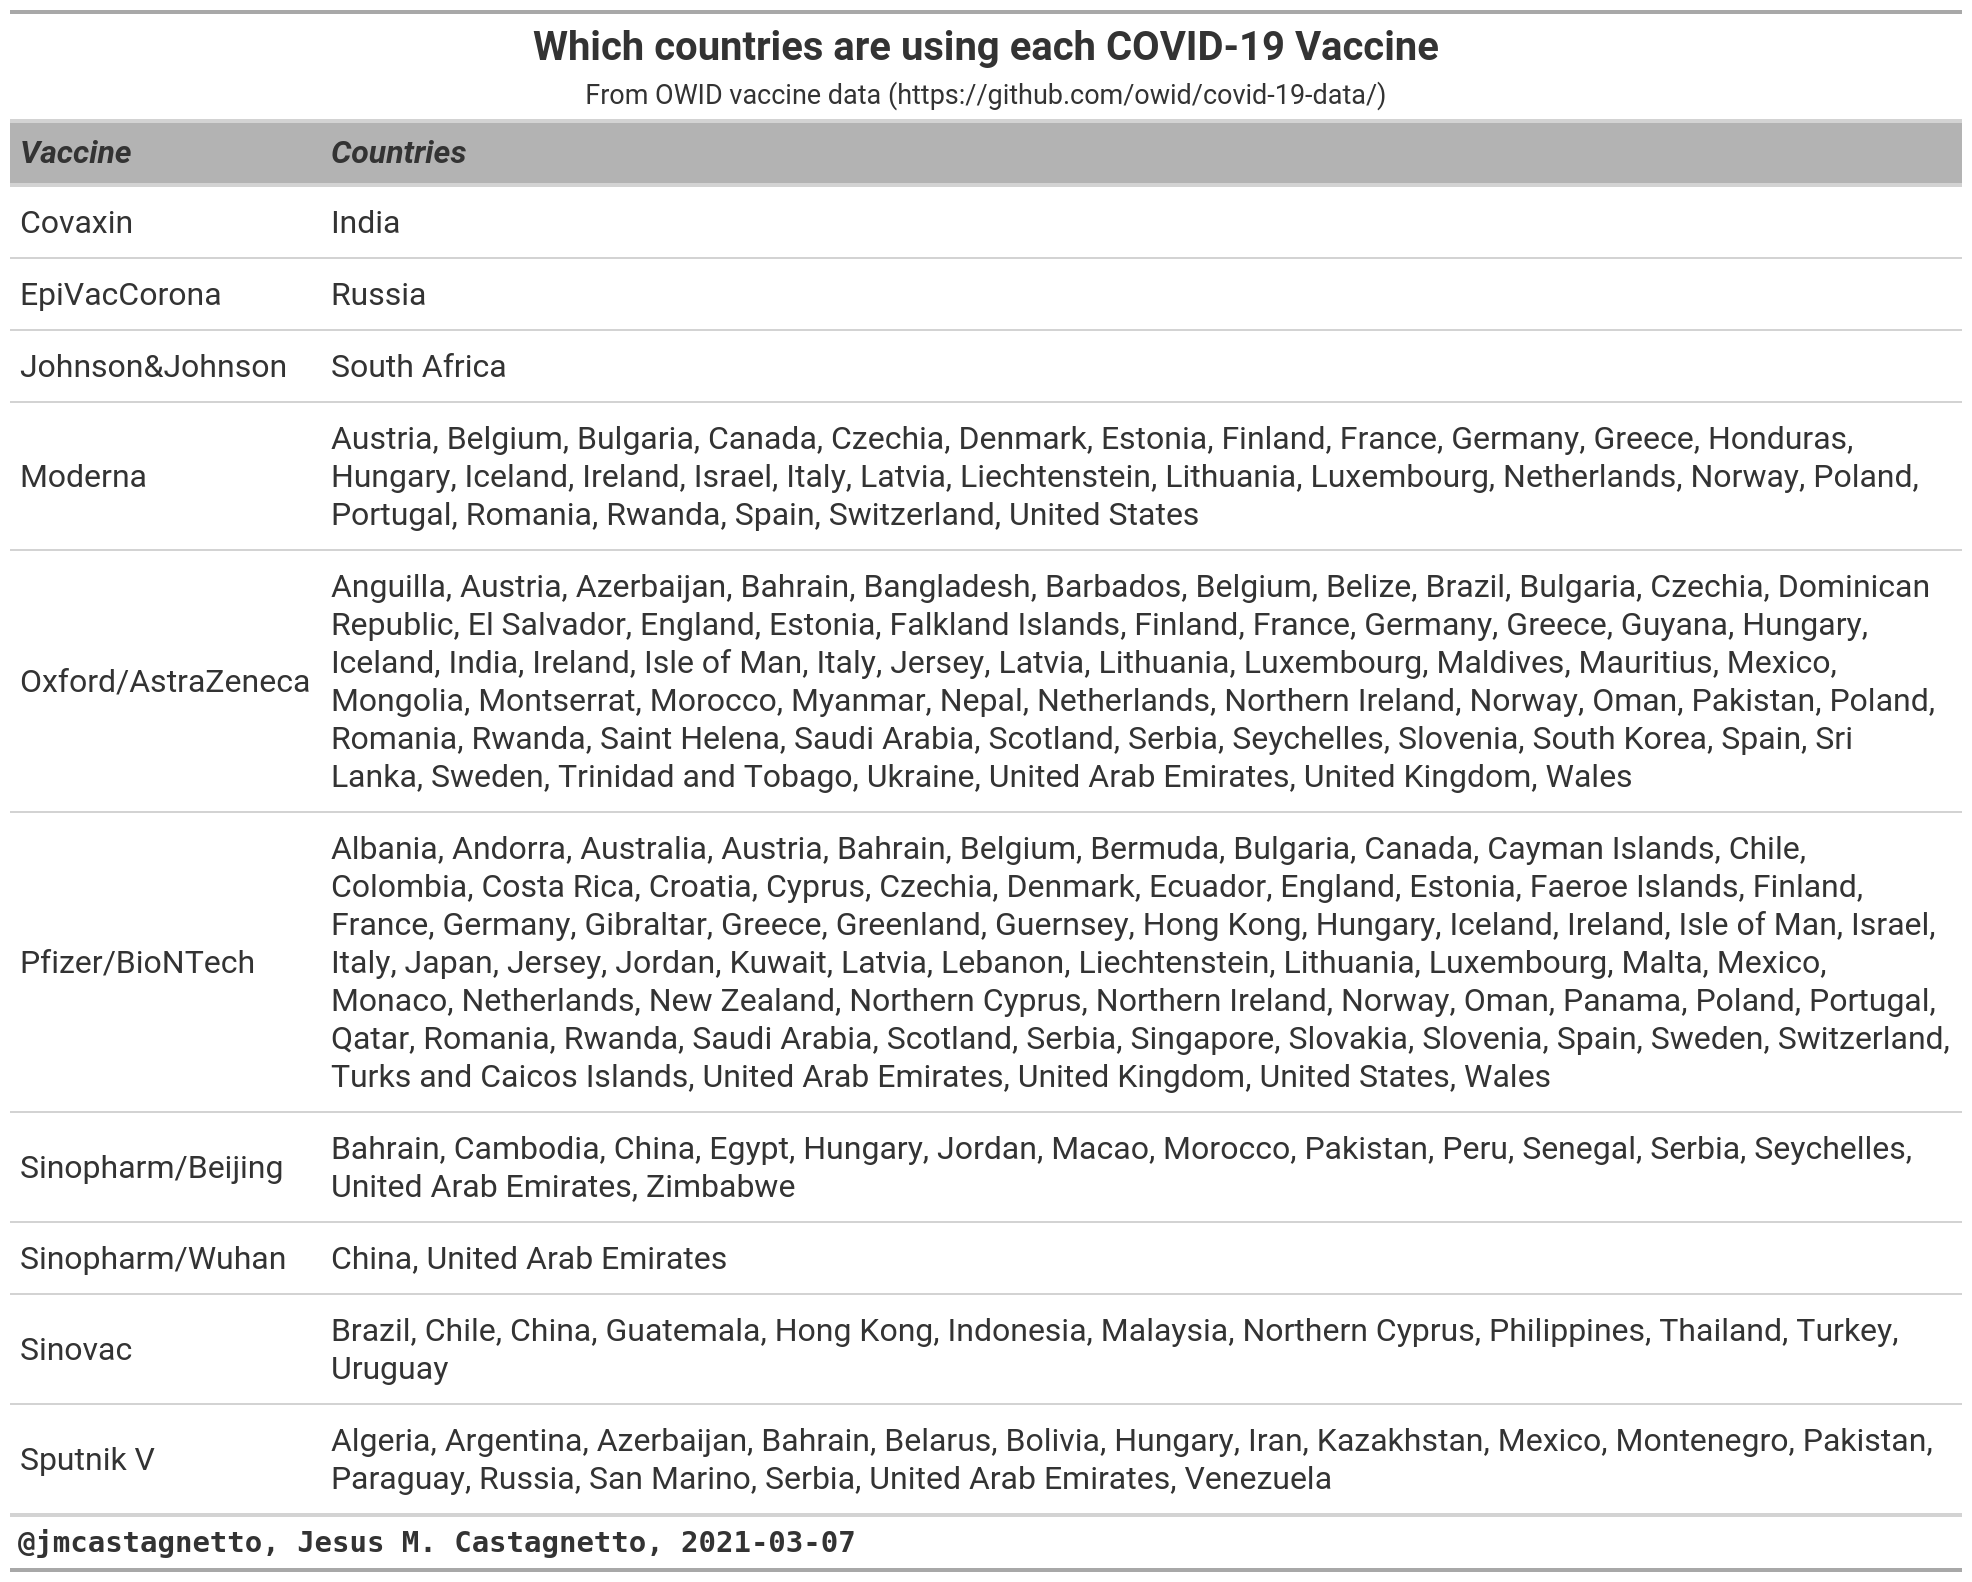
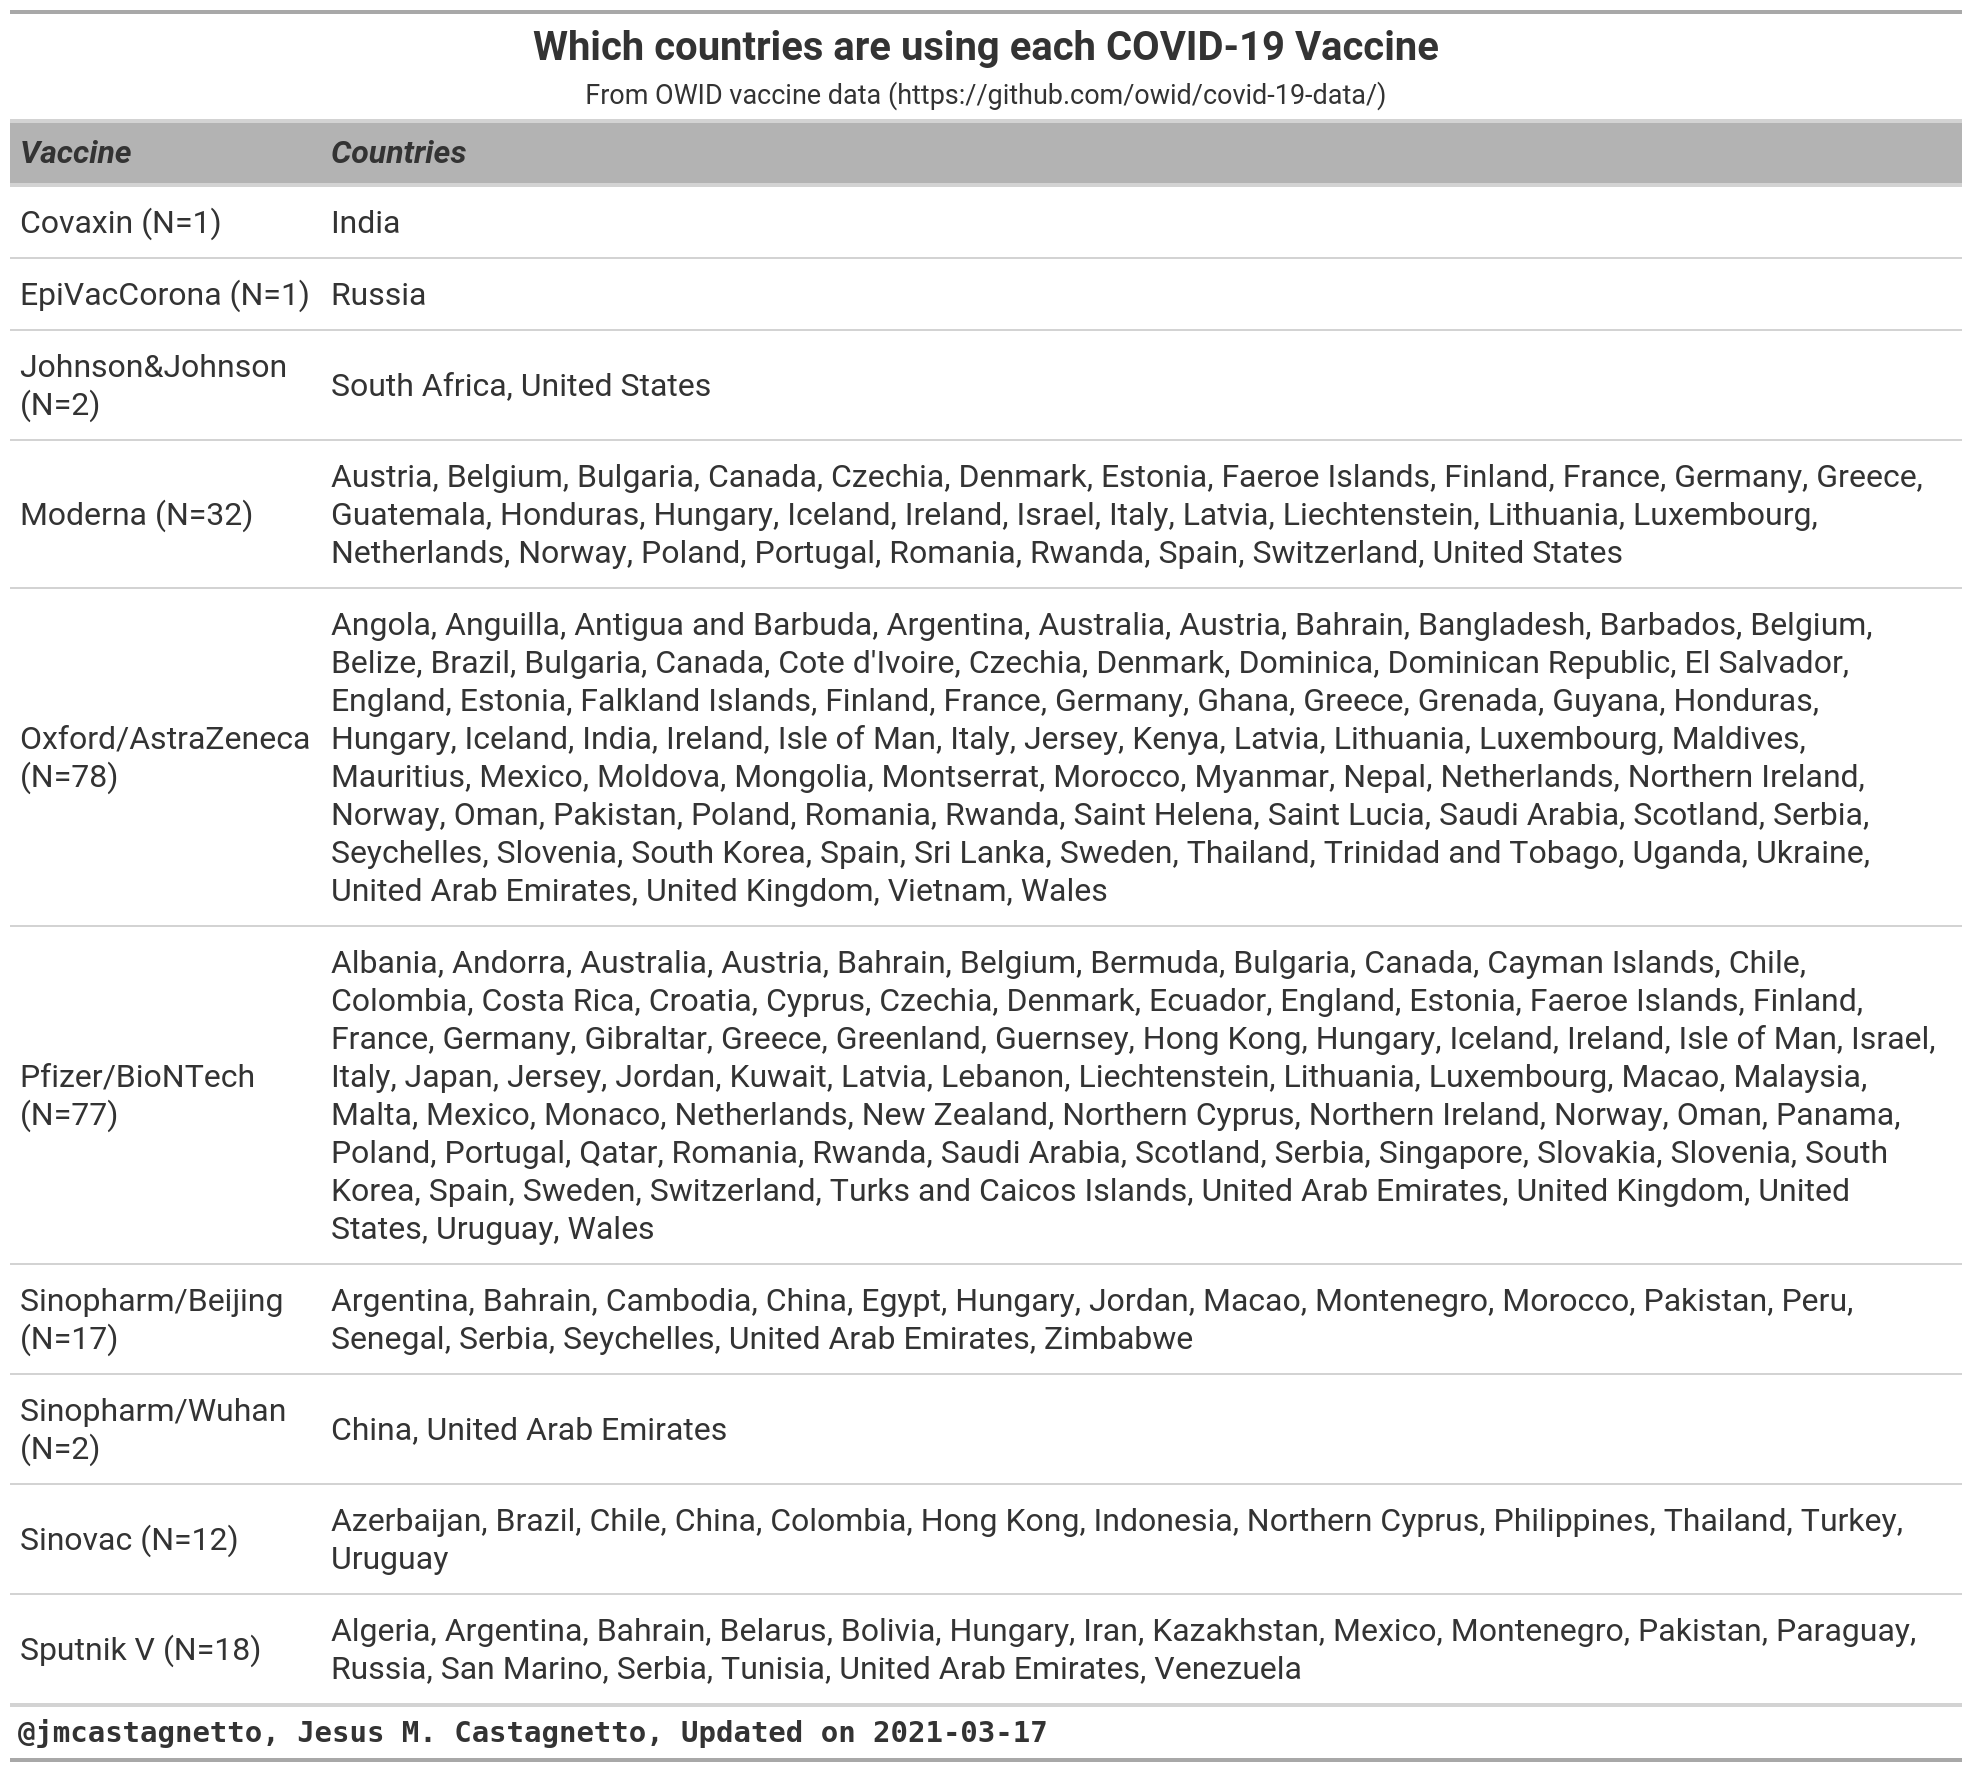
owid vaccine data: table and graph of countries and vaccines

Changed region(s): [[0.0, 0.0, 1.0, 1.0], [0.0, 0.5885, 0.1237, 0.6504], [0.0, 0.2788, 0.1237, 0.3097]]

diff --git a/covid19-vaccines/covid19-vaccines-countries.html b/covid19-vaccines/covid19-vaccines-countries.html
@@ -11,7 +11,7 @@
   font-family: -apple-system, BlinkMacSystemFont, 'Segoe UI', Roboto, Oxygen, Ubuntu, Cantarell, 'Helvetica Neue', 'Fira Sans', 'Droid Sans', Arial, sans-serif;
 }
 
-#ebenlnnngs .gt_table {
+#ynfxjupcxv .gt_table {
   display: table;
   border-collapse: collapse;
   margin-left: auto;
@@ -36,7 +36,7 @@
   border-left-color: #D3D3D3;
 }
 
-#ebenlnnngs .gt_heading {
+#ynfxjupcxv .gt_heading {
   background-color: #FFFFFF;
   text-align: center;
   border-bottom-color: #FFFFFF;
@@ -48,7 +48,7 @@
   border-right-color: #D3D3D3;
 }
 
-#ebenlnnngs .gt_title {
+#ynfxjupcxv .gt_title {
   color: #333333;
   font-size: 125%;
   font-weight: initial;
@@ -58,7 +58,7 @@
   border-bottom-width: 0;
 }
 
-#ebenlnnngs .gt_subtitle {
+#ynfxjupcxv .gt_subtitle {
   color: #333333;
   font-size: 85%;
   font-weight: initial;
@@ -68,13 +68,13 @@
   border-top-width: 0;
 }
 
-#ebenlnnngs .gt_bottom_border {
+#ynfxjupcxv .gt_bottom_border {
   border-bottom-style: solid;
   border-bottom-width: 2px;
   border-bottom-color: #D3D3D3;
 }
 
-#ebenlnnngs .gt_col_headings {
+#ynfxjupcxv .gt_col_headings {
   border-top-style: solid;
   border-top-width: 2px;
   border-top-color: #D3D3D3;
@@ -89,7 +89,7 @@
   border-right-color: #D3D3D3;
 }
 
-#ebenlnnngs .gt_col_heading {
+#ynfxjupcxv .gt_col_heading {
   color: #333333;
   background-color: #FFFFFF;
   font-size: 100%;
@@ -109,7 +109,7 @@
   overflow-x: hidden;
 }
 
-#ebenlnnngs .gt_column_spanner_outer {
+#ynfxjupcxv .gt_column_spanner_outer {
   color: #333333;
   background-color: #FFFFFF;
   font-size: 100%;
@@ -121,15 +121,15 @@
   padding-right: 4px;
 }
 
-#ebenlnnngs .gt_column_spanner_outer:first-child {
+#ynfxjupcxv .gt_column_spanner_outer:first-child {
   padding-left: 0;
 }
 
-#ebenlnnngs .gt_column_spanner_outer:last-child {
+#ynfxjupcxv .gt_column_spanner_outer:last-child {
   padding-right: 0;
 }
 
-#ebenlnnngs .gt_column_spanner {
+#ynfxjupcxv .gt_column_spanner {
   border-bottom-style: solid;
   border-bottom-width: 2px;
   border-bottom-color: #D3D3D3;
@@ -141,7 +141,7 @@
   width: 100%;
 }
 
-#ebenlnnngs .gt_group_heading {
+#ynfxjupcxv .gt_group_heading {
   padding: 8px;
   color: #333333;
   background-color: #FFFFFF;
@@ -163,7 +163,7 @@
   vertical-align: middle;
 }
 
-#ebenlnnngs .gt_empty_group_heading {
+#ynfxjupcxv .gt_empty_group_heading {
   padding: 0.5px;
   color: #333333;
   background-color: #FFFFFF;
@@ -178,15 +178,15 @@
   vertical-align: middle;
 }
 
-#ebenlnnngs .gt_from_md > :first-child {
+#ynfxjupcxv .gt_from_md > :first-child {
   margin-top: 0;
 }
 
-#ebenlnnngs .gt_from_md > :last-child {
+#ynfxjupcxv .gt_from_md > :last-child {
   margin-bottom: 0;
 }
 
-#ebenlnnngs .gt_row {
+#ynfxjupcxv .gt_row {
   padding-top: 8px;
   padding-bottom: 8px;
   padding-left: 5px;
@@ -205,7 +205,7 @@
   overflow-x: hidden;
 }
 
-#ebenlnnngs .gt_stub {
+#ynfxjupcxv .gt_stub {
   color: #333333;
   background-color: #FFFFFF;
   font-size: 100%;
@@ -217,7 +217,7 @@
   padding-left: 12px;
 }
 
-#ebenlnnngs .gt_summary_row {
+#ynfxjupcxv .gt_summary_row {
   color: #333333;
   background-color: #FFFFFF;
   text-transform: inherit;
@@ -227,7 +227,7 @@
   padding-right: 5px;
 }
 
-#ebenlnnngs .gt_first_summary_row {
+#ynfxjupcxv .gt_first_summary_row {
   padding-top: 8px;
   padding-bottom: 8px;
   padding-left: 5px;
@@ -237,7 +237,7 @@
   border-top-color: #D3D3D3;
 }
 
-#ebenlnnngs .gt_grand_summary_row {
+#ynfxjupcxv .gt_grand_summary_row {
   color: #333333;
   background-color: #FFFFFF;
   text-transform: inherit;
@@ -247,7 +247,7 @@
   padding-right: 5px;
 }
 
-#ebenlnnngs .gt_first_grand_summary_row {
+#ynfxjupcxv .gt_first_grand_summary_row {
   padding-top: 8px;
   padding-bottom: 8px;
   padding-left: 5px;
@@ -257,11 +257,11 @@
   border-top-color: #D3D3D3;
 }
 
-#ebenlnnngs .gt_striped {
+#ynfxjupcxv .gt_striped {
   background-color: rgba(128, 128, 128, 0.05);
 }
 
-#ebenlnnngs .gt_table_body {
+#ynfxjupcxv .gt_table_body {
   border-top-style: solid;
   border-top-width: 2px;
   border-top-color: #D3D3D3;
@@ -270,7 +270,7 @@
   border-bottom-color: #D3D3D3;
 }
 
-#ebenlnnngs .gt_footnotes {
+#ynfxjupcxv .gt_footnotes {
   color: #333333;
   background-color: #FFFFFF;
   border-bottom-style: none;
@@ -284,13 +284,13 @@
   border-right-color: #D3D3D3;
 }
 
-#ebenlnnngs .gt_footnote {
+#ynfxjupcxv .gt_footnote {
   margin: 0px;
   font-size: 90%;
   padding: 4px;
 }
 
-#ebenlnnngs .gt_sourcenotes {
+#ynfxjupcxv .gt_sourcenotes {
   color: #333333;
   background-color: #FFFFFF;
   border-bottom-style: none;
@@ -304,46 +304,46 @@
   border-right-color: #D3D3D3;
 }
 
-#ebenlnnngs .gt_sourcenote {
+#ynfxjupcxv .gt_sourcenote {
   font-size: 90%;
   padding: 4px;
 }
 
-#ebenlnnngs .gt_left {
+#ynfxjupcxv .gt_left {
   text-align: left;
 }
 
-#ebenlnnngs .gt_center {
+#ynfxjupcxv .gt_center {
   text-align: center;
 }
 
-#ebenlnnngs .gt_right {
+#ynfxjupcxv .gt_right {
   text-align: right;
   font-variant-numeric: tabular-nums;
 }
 
-#ebenlnnngs .gt_font_normal {
+#ynfxjupcxv .gt_font_normal {
   font-weight: normal;
 }
 
-#ebenlnnngs .gt_font_bold {
+#ynfxjupcxv .gt_font_bold {
   font-weight: bold;
 }
 
-#ebenlnnngs .gt_font_italic {
+#ynfxjupcxv .gt_font_italic {
   font-style: italic;
 }
 
-#ebenlnnngs .gt_super {
+#ynfxjupcxv .gt_super {
   font-size: 65%;
 }
 
-#ebenlnnngs .gt_footnote_marks {
+#ynfxjupcxv .gt_footnote_marks {
   font-style: italic;
   font-size: 65%;
 }
 </style>
-<div id="ebenlnnngs" style="overflow-x:auto;overflow-y:auto;width:auto;height:auto;"><table class="gt_table">
+<div id="ynfxjupcxv" style="overflow-x:auto;overflow-y:auto;width:auto;height:auto;"><table class="gt_table">
   <thead class="gt_header">
     <tr>
       <th colspan="2" class="gt_heading gt_title gt_font_normal" style><strong>Which countries are using each COVID-19 Vaccine</strong></th>
@@ -360,49 +360,49 @@
   </thead>
   <tbody class="gt_table_body">
     <tr>
-      <td class="gt_row gt_left">Covaxin</td>
+      <td class="gt_row gt_left">Covaxin (N=1)</td>
       <td class="gt_row gt_left">India</td>
     </tr>
     <tr>
-      <td class="gt_row gt_left">EpiVacCorona</td>
+      <td class="gt_row gt_left">EpiVacCorona (N=1)</td>
       <td class="gt_row gt_left">Russia</td>
     </tr>
     <tr>
-      <td class="gt_row gt_left">Johnson&amp;Johnson</td>
-      <td class="gt_row gt_left">South Africa</td>
+      <td class="gt_row gt_left">Johnson&amp;Johnson (N=2)</td>
+      <td class="gt_row gt_left">South Africa, United States</td>
     </tr>
     <tr>
-      <td class="gt_row gt_left">Moderna</td>
-      <td class="gt_row gt_left">Austria, Belgium, Bulgaria, Canada, Czechia, Denmark, Estonia, Finland, France, Germany, Greece, Honduras, Hungary, Iceland, Ireland, Israel, Italy, Latvia, Liechtenstein, Lithuania, Luxembourg, Netherlands, Norway, Poland, Portugal, Romania, Rwanda, Spain, Switzerland, United States</td>
+      <td class="gt_row gt_left">Moderna (N=32)</td>
+      <td class="gt_row gt_left">Austria, Belgium, Bulgaria, Canada, Czechia, Denmark, Estonia, Faeroe Islands, Finland, France, Germany, Greece, Guatemala, Honduras, Hungary, Iceland, Ireland, Israel, Italy, Latvia, Liechtenstein, Lithuania, Luxembourg, Netherlands, Norway, Poland, Portugal, Romania, Rwanda, Spain, Switzerland, United States</td>
     </tr>
     <tr>
-      <td class="gt_row gt_left">Oxford/AstraZeneca</td>
-      <td class="gt_row gt_left">Anguilla, Austria, Azerbaijan, Bahrain, Bangladesh, Barbados, Belgium, Belize, Brazil, Bulgaria, Czechia, Dominican Republic, El Salvador, England, Estonia, Falkland Islands, Finland, France, Germany, Greece, Guyana, Hungary, Iceland, India, Ireland, Isle of Man, Italy, Jersey, Latvia, Lithuania, Luxembourg, Maldives, Mauritius, Mexico, Mongolia, Montserrat, Morocco, Myanmar, Nepal, Netherlands, Northern Ireland, Norway, Oman, Pakistan, Poland, Romania, Rwanda, Saint Helena, Saudi Arabia, Scotland, Serbia, Seychelles, Slovenia, South Korea, Spain, Sri Lanka, Sweden, Trinidad and Tobago, Ukraine, United Arab Emirates, United Kingdom, Wales</td>
+      <td class="gt_row gt_left">Oxford/AstraZeneca (N=78)</td>
+      <td class="gt_row gt_left">Angola, Anguilla, Antigua and Barbuda, Argentina, Australia, Austria, Bahrain, Bangladesh, Barbados, Belgium, Belize, Brazil, Bulgaria, Canada, Cote d'Ivoire, Czechia, Denmark, Dominica, Dominican Republic, El Salvador, England, Estonia, Falkland Islands, Finland, France, Germany, Ghana, Greece, Grenada, Guyana, Honduras, Hungary, Iceland, India, Ireland, Isle of Man, Italy, Jersey, Kenya, Latvia, Lithuania, Luxembourg, Maldives, Mauritius, Mexico, Moldova, Mongolia, Montserrat, Morocco, Myanmar, Nepal, Netherlands, Northern Ireland, Norway, Oman, Pakistan, Poland, Romania, Rwanda, Saint Helena, Saint Lucia, Saudi Arabia, Scotland, Serbia, Seychelles, Slovenia, South Korea, Spain, Sri Lanka, Sweden, Thailand, Trinidad and Tobago, Uganda, Ukraine, United Arab Emirates, United Kingdom, Vietnam, Wales</td>
     </tr>
     <tr>
-      <td class="gt_row gt_left">Pfizer/BioNTech</td>
-      <td class="gt_row gt_left">Albania, Andorra, Australia, Austria, Bahrain, Belgium, Bermuda, Bulgaria, Canada, Cayman Islands, Chile, Colombia, Costa Rica, Croatia, Cyprus, Czechia, Denmark, Ecuador, England, Estonia, Faeroe Islands, Finland, France, Germany, Gibraltar, Greece, Greenland, Guernsey, Hong Kong, Hungary, Iceland, Ireland, Isle of Man, Israel, Italy, Japan, Jersey, Jordan, Kuwait, Latvia, Lebanon, Liechtenstein, Lithuania, Luxembourg, Malta, Mexico, Monaco, Netherlands, New Zealand, Northern Cyprus, Northern Ireland, Norway, Oman, Panama, Poland, Portugal, Qatar, Romania, Rwanda, Saudi Arabia, Scotland, Serbia, Singapore, Slovakia, Slovenia, Spain, Sweden, Switzerland, Turks and Caicos Islands, United Arab Emirates, United Kingdom, United States, Wales</td>
+      <td class="gt_row gt_left">Pfizer/BioNTech (N=77)</td>
+      <td class="gt_row gt_left">Albania, Andorra, Australia, Austria, Bahrain, Belgium, Bermuda, Bulgaria, Canada, Cayman Islands, Chile, Colombia, Costa Rica, Croatia, Cyprus, Czechia, Denmark, Ecuador, England, Estonia, Faeroe Islands, Finland, France, Germany, Gibraltar, Greece, Greenland, Guernsey, Hong Kong, Hungary, Iceland, Ireland, Isle of Man, Israel, Italy, Japan, Jersey, Jordan, Kuwait, Latvia, Lebanon, Liechtenstein, Lithuania, Luxembourg, Macao, Malaysia, Malta, Mexico, Monaco, Netherlands, New Zealand, Northern Cyprus, Northern Ireland, Norway, Oman, Panama, Poland, Portugal, Qatar, Romania, Rwanda, Saudi Arabia, Scotland, Serbia, Singapore, Slovakia, Slovenia, South Korea, Spain, Sweden, Switzerland, Turks and Caicos Islands, United Arab Emirates, United Kingdom, United States, Uruguay, Wales</td>
     </tr>
     <tr>
-      <td class="gt_row gt_left">Sinopharm/Beijing</td>
-      <td class="gt_row gt_left">Bahrain, Cambodia, China, Egypt, Hungary, Jordan, Macao, Morocco, Pakistan, Peru, Senegal, Serbia, Seychelles, United Arab Emirates, Zimbabwe</td>
+      <td class="gt_row gt_left">Sinopharm/Beijing (N=17)</td>
+      <td class="gt_row gt_left">Argentina, Bahrain, Cambodia, China, Egypt, Hungary, Jordan, Macao, Montenegro, Morocco, Pakistan, Peru, Senegal, Serbia, Seychelles, United Arab Emirates, Zimbabwe</td>
     </tr>
     <tr>
-      <td class="gt_row gt_left">Sinopharm/Wuhan</td>
+      <td class="gt_row gt_left">Sinopharm/Wuhan (N=2)</td>
       <td class="gt_row gt_left">China, United Arab Emirates</td>
     </tr>
     <tr>
-      <td class="gt_row gt_left">Sinovac</td>
-      <td class="gt_row gt_left">Brazil, Chile, China, Guatemala, Hong Kong, Indonesia, Malaysia, Northern Cyprus, Philippines, Thailand, Turkey, Uruguay</td>
+      <td class="gt_row gt_left">Sinovac (N=12)</td>
+      <td class="gt_row gt_left">Azerbaijan, Brazil, Chile, China, Colombia, Hong Kong, Indonesia, Northern Cyprus, Philippines, Thailand, Turkey, Uruguay</td>
     </tr>
     <tr>
-      <td class="gt_row gt_left">Sputnik V</td>
-      <td class="gt_row gt_left">Algeria, Argentina, Azerbaijan, Bahrain, Belarus, Bolivia, Hungary, Iran, Kazakhstan, Mexico, Montenegro, Pakistan, Paraguay, Russia, San Marino, Serbia, United Arab Emirates, Venezuela</td>
+      <td class="gt_row gt_left">Sputnik V (N=18)</td>
+      <td class="gt_row gt_left">Algeria, Argentina, Bahrain, Belarus, Bolivia, Hungary, Iran, Kazakhstan, Mexico, Montenegro, Pakistan, Paraguay, Russia, San Marino, Serbia, Tunisia, United Arab Emirates, Venezuela</td>
     </tr>
   </tbody>
   <tfoot class="gt_sourcenotes">
     <tr>
-      <td class="gt_sourcenote" colspan="2"><strong><code>@jmcastagnetto, Jesus M. Castagnetto, 2021-03-07</code></strong></td>
+      <td class="gt_sourcenote" colspan="2"><strong><code>@jmcastagnetto, Jesus M. Castagnetto, Updated on 2021-03-17</code></strong></td>
     </tr>
   </tfoot>
   
